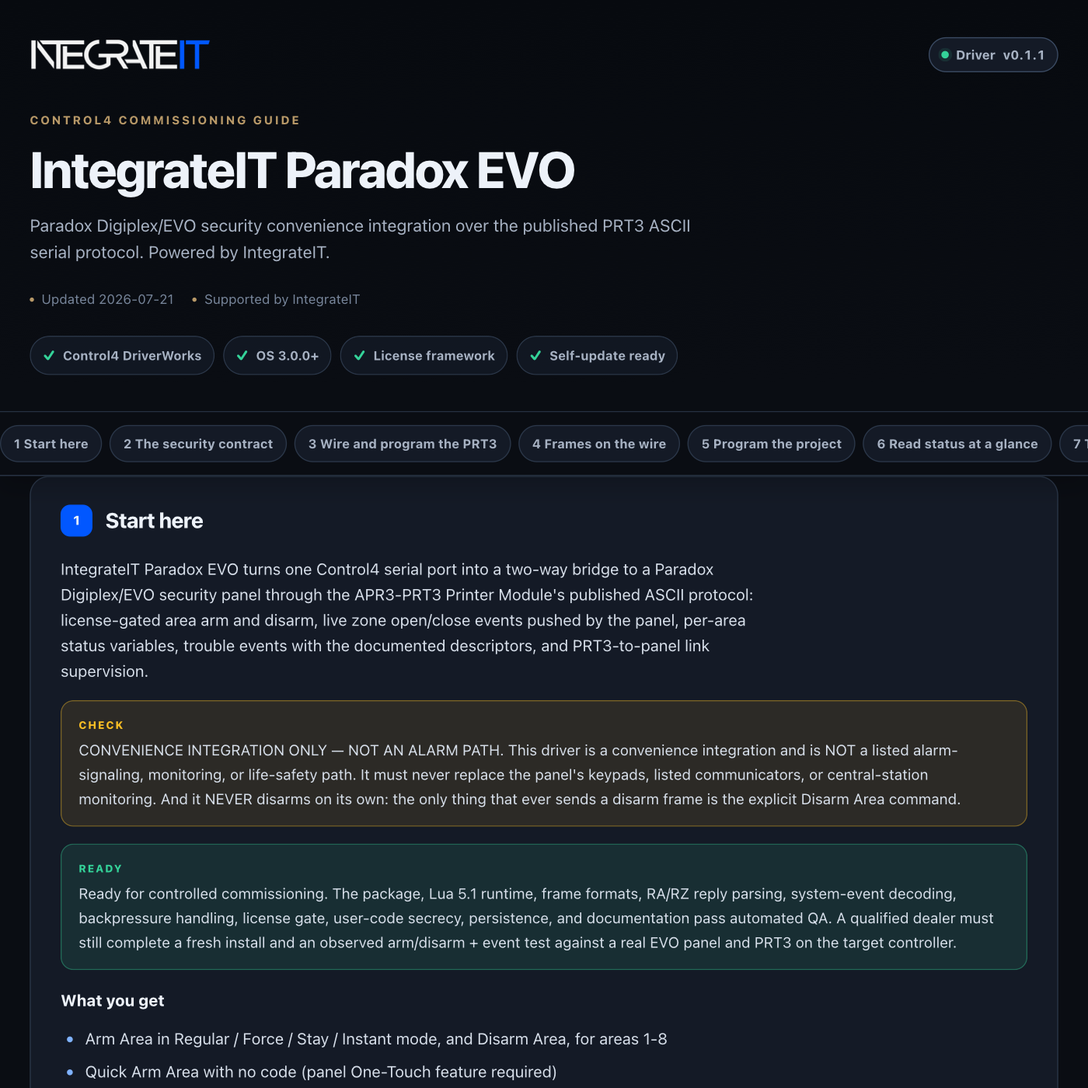
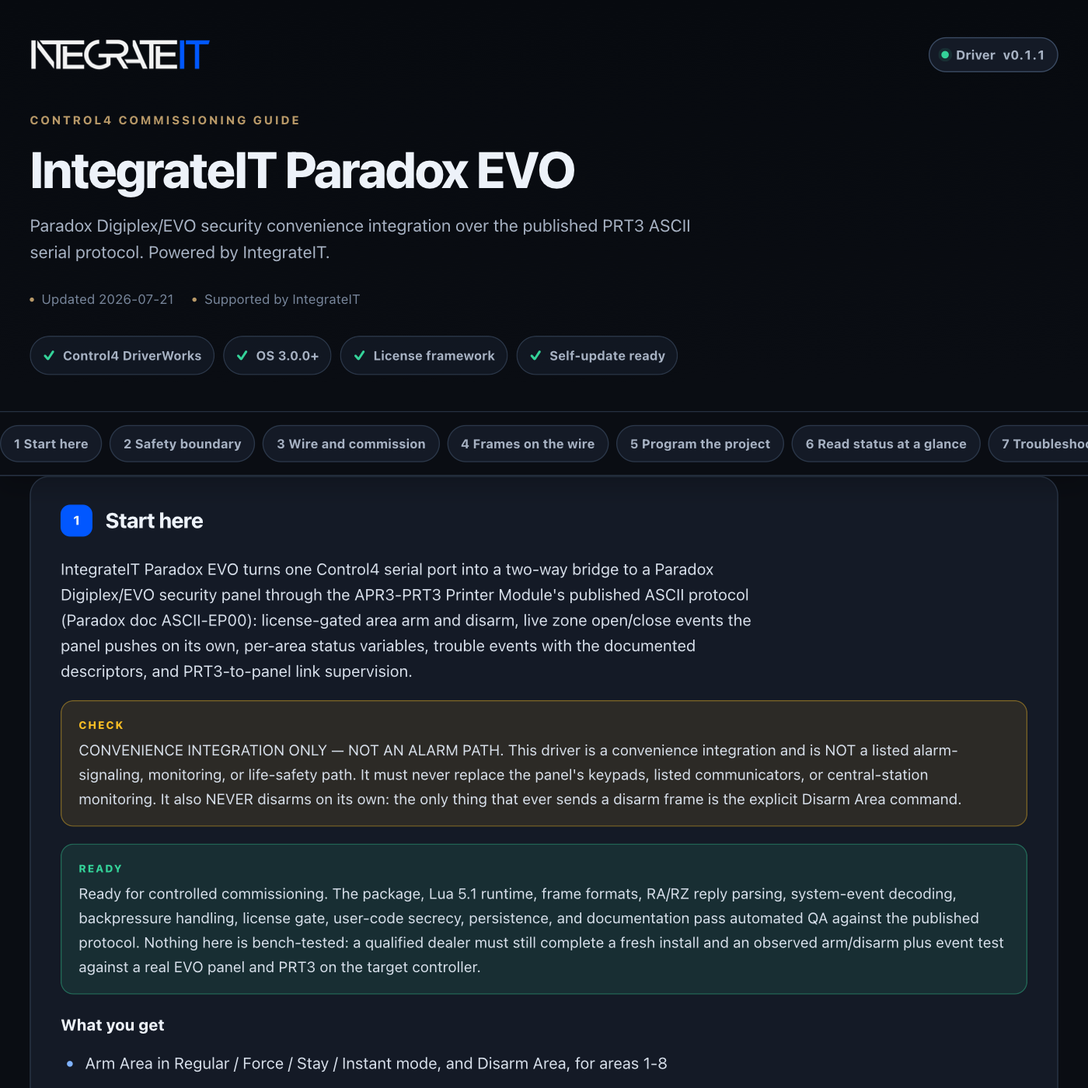
control4: publish driver channel (integrateit_paradox_evo 0.1.2)

diff --git a/control4/integrateit_paradox_evo/documentation.html b/control4/integrateit_paradox_evo/documentation.html
@@ -179,13 +179,13 @@ td code{white-space:normal}
     <div class="wrap">
       <div class="brandbar">
[1 lines of base64/hex data omitted]
-        <span class="version"><span class="word">Driver</span> v0.1.1</span>
+        <span class="version"><span class="word">Driver</span> v0.1.2</span>
       </div>
       <p class="eyebrow">Control4 commissioning guide</p>
       <h1>IntegrateIT Paradox EVO</h1>
       <p class="sub">Paradox Digiplex/EVO security convenience integration over the published PRT3 ASCII serial protocol. Powered by IntegrateIT.</p>
       <div class="meta">
-        <span>Updated 2026-07-21</span>
+        <span>Updated 2026-07-26</span>
         <span>Supported by IntegrateIT</span>
       </div>
       <div class="readiness" aria-label="Driver capabilities">
@@ -198,66 +198,68 @@ td code{white-space:normal}
   </header>
 
   <div class="toc-wrap">
-    <nav class="toc wrap" aria-label="Documentation sections"><a href="#overview">1 Start here</a><a href="#security">2 The security contract</a><a href="#setup">3 Wire and program the PRT3</a><a href="#protocol">4 Frames on the wire</a><a href="#programming">5 Program the project</a><a href="#status">6 Read status at a glance</a><a href="#troubleshooting">7 Troubleshoot methodically</a><a href="#trust">8 Ownership, privacy, and licensing</a><a href="#reference">R Reference</a><a href="#licensing">L Licensing</a><a href="#updates">U Automatic updates</a><a href="#changelog">V Version history</a></nav>
+    <nav class="toc wrap" aria-label="Documentation sections"><a href="#overview">1 Start here</a><a href="#safety">2 Safety boundary</a><a href="#setup">3 Wire and commission</a><a href="#protocol">4 Frames on the wire</a><a href="#programming">5 Program the project</a><a href="#status">6 Read status at a glance</a><a href="#troubleshooting">7 Troubleshoot methodically</a><a href="#trust">8 Ownership, privacy, and licensing</a><a href="#reference">R Reference</a><a href="#licensing">L Licensing</a><a href="#updates">U Automatic updates</a><a href="#changelog">V Version history</a></nav>
   </div>
 
   <main class="wrap">
     <section class="card" id="overview" data-card="overview">
   <h2><span class="n">1</span> Start here</h2>
-  <p>IntegrateIT Paradox EVO turns one Control4 serial port into a two-way bridge to a Paradox Digiplex/EVO security panel through the APR3-PRT3 Printer Module's published ASCII protocol: license-gated area arm and disarm, live zone open/close events pushed by the panel, per-area status variables, trouble events with the documented descriptors, and PRT3-to-panel link supervision.</p>
-  <div class="note warn">CONVENIENCE INTEGRATION ONLY — NOT AN ALARM PATH. This driver is a convenience integration and is NOT a listed alarm-signaling, monitoring, or life-safety path. It must never replace the panel's keypads, listed communicators, or central-station monitoring. And it NEVER disarms on its own: the only thing that ever sends a disarm frame is the explicit Disarm Area command.</div>
-  <div class="note good">Ready for controlled commissioning. The package, Lua 5.1 runtime, frame formats, RA/RZ reply parsing, system-event decoding, backpressure handling, license gate, user-code secrecy, persistence, and documentation pass automated QA. A qualified dealer must still complete a fresh install and an observed arm/disarm + event test against a real EVO panel and PRT3 on the target controller.</div>
+  <p>IntegrateIT Paradox EVO turns one Control4 serial port into a two-way bridge to a Paradox Digiplex/EVO security panel through the APR3-PRT3 Printer Module's published ASCII protocol (Paradox doc ASCII-EP00): license-gated area arm and disarm, live zone open/close events the panel pushes on its own, per-area status variables, trouble events with the documented descriptors, and PRT3-to-panel link supervision.</p>
+  <div class="note warn">CONVENIENCE INTEGRATION ONLY — NOT AN ALARM PATH. This driver is a convenience integration and is NOT a listed alarm-signaling, monitoring, or life-safety path. It must never replace the panel's keypads, listed communicators, or central-station monitoring. It also NEVER disarms on its own: the only thing that ever sends a disarm frame is the explicit Disarm Area command.</div>
+  <div class="note good">Ready for controlled commissioning. The package, Lua 5.1 runtime, frame formats, RA/RZ reply parsing, system-event decoding, backpressure handling, license gate, user-code secrecy, persistence, and documentation pass automated QA against the published protocol. Nothing here is bench-tested: a qualified dealer must still complete a fresh install and an observed arm/disarm plus event test against a real EVO panel and PRT3 on the target controller.</div>
   <p><b>What you get</b></p>
   <ul>
     <li>Arm Area in Regular / Force / Stay / Instant mode, and Disarm Area, for areas 1-8</li>
     <li>Quick Arm Area with no code (panel One-Touch feature required)</li>
     <li><code>Zone Opened</code> / <code>Zone Closed</code> events driven by the panel's own pushed system events</li>
     <li><code>AREA_1_STATUS</code> … <code>AREA_8_STATUS</code> variables plus a parsed <code>Area Status</code> readout with alarm / trouble / memory / not-ready / programming / strobe flags</li>
-    <li><code>Trouble Started</code> / <code>Trouble Restored</code> events (AC failure, battery failure, bell, clock, TLM, fire loop, zone tamper)</li>
+    <li><code>Trouble Started</code> / <code>Trouble Restored</code> events (AC failure, battery, bell, clock, TLM, fire loop, zone tamper)</li>
     <li><code>Panel Link Lost</code> / <code>Panel Link Restored</code> from the PRT3's <code>COMM&amp;ok</code> / <code>COMM&amp;fail</code> heartbeat</li>
     <li>On-demand <code>Refresh Area Status</code> and <code>Refresh Zone Status</code> sweeps over a paced queue that honors the PRT3's buffer-full (<code>!</code>) backpressure</li>
   </ul>
 </section>
 
-<section class="card" id="security" data-card="security">
-  <h2><span class="n">2</span> The security contract</h2>
-  <p>This driver takes the safety questions off the table before they are asked:</p>
+<section class="card" id="safety" data-card="safety">
+  <h2><span class="n">2</span> Safety boundary</h2>
+  <div class="note warn">Do not build life-safety or security-critical automation on this driver. It is a convenience layer over an unauthenticated serial protocol; the panel, its keypads, and its listed communicators remain the system of record for alarm signaling, monitoring, and life safety. Nothing this driver does is a listed alarm path.</div>
+  <p>This driver settles the safety questions before they are asked:</p>
   <ul>
-    <li><b>Not an alarm path.</b> Nothing this driver does is a listed alarm-signaling or life-safety function. Monitoring, reporting, and life safety stay on the panel and its listed communicators.</li>
-    <li><b>Never auto-disarm.</b> There is exactly one code path that builds a disarm frame — the Disarm Area command — and no event, timer, schedule, or received message can invoke it. Programming a disarm into your project is a dealer decision, made explicitly.</li>
-    <li><b>The user code is a write-only secret.</b> It is embedded in arm/disarm frames because the protocol demands it inline; it is never printed to the log, never placed in a Control4 variable, and masked (<code>AA001A******</code>) everywhere it is displayed.</li>
+    <li><b>Not an alarm path.</b> No function here is listed alarm-signaling, monitoring, or life-safety. Those stay on the panel and its listed communicators — always.</li>
+    <li><b>Never auto-disarm.</b> Exactly one code path builds a disarm (<code>AD</code>) frame — the explicit <b>Disarm Area</b> command — and no received event, timer, schedule, or state change can invoke it. A disarm you program into the project is a deliberate dealer decision. The <code>Area Disarmed</code> event is report-only.</li>
+    <li><b>An alarm is never suppressed.</b> Every edge into alarm fires <code>Area In Alarm</code>, including the very first observation and including a panel event scoped to area <code>000</code> (all-areas / global) that has no single area to pin it to.</li>
+    <li><b>The user code is a write-only secret.</b> It is embedded in arm/disarm frames because the protocol carries it inline; it is never printed to the log, never placed in a Control4 variable, and masked (<code>AA001A******</code>) everywhere it is displayed. <code>Print Configuration</code> reports only whether a code is set and its digit count.</li>
     <li><b>The wire is plaintext.</b> The PRT3 ASCII protocol has no session authentication and no encryption — physical access to the serial run is effectively authority over the panel. Keep the RS-232 run inside the protected premises and treat it as a trusted segment.</li>
   </ul>
 </section>
 
 <section class="card" id="setup" data-card="setup">
-  <h2><span class="n">3</span> Wire and program the PRT3</h2>
+  <h2><span class="n">3</span> Wire and commission</h2>
   <ol class="steps">
     <li>Connect the APR3-PRT3 to the panel combus (red / black / green / yellow) per the Paradox instructions.</li>
     <li>In PRT3 programming, set section <b>[016]</b> option <b>[1]</b> ON (serial port enabled), option <b>[4]</b> ON (Home Automation usage), and options <b>[5]</b> and <b>[6]</b> OFF (ASCII protocol). Set the baud rate with options <b>[2]</b> and <b>[3]</b> (2400 / 9600 / 19200 / 57600).</li>
     <li>Wire a Control4 controller or IO-extender RS-232 port to the PRT3's 9-pin serial port: 8 data bits, no parity, 1 stop bit, no flow control, at the baud you programmed.</li>
     <li>Add <b>IntegrateIT Paradox EVO</b> to the project and bind <b>PRT3 Serial Port</b> (binding 1) to that port in Connections, matching the baud.</li>
     <li>Watch <code>Panel Link</code> flip to <code>OK</code> — the PRT3 announces <code>COMM&amp;ok</code> at startup when it is talking to the panel.</li>
-    <li>Enter a panel user code with arming rights in <b>User Code</b>, pick the <b>Area</b> and <b>Arm Mode</b>, and test <b>Arm Area</b> / <b>Disarm Area</b> from the Actions tab with someone at a keypad.</li>
-    <li>Set <b>Area Count</b> / <b>Zone Count</b> to match the panel, then run <b>Refresh Area Status</b> and <b>Refresh Zone Status</b> to baseline the state.</li>
+    <li>Enter a panel user code with arming rights in <b>User Code</b>, pick the <b>Area</b> and <b>Arm Mode</b>, then test <b>Arm Area</b> / <b>Disarm Area</b> from the Actions tab with someone at a keypad. <code>Last Command</code> shows the masked frame and the PRT3's <code>&amp;OK</code> echo clears <code>Last Error</code> — that echo means the PRT3 accepted the frame, not that the area armed.</li>
+    <li>Set <b>Area Count</b> / <b>Zone Count</b> to match the panel, then run <b>Refresh Area Status</b> and <b>Refresh Zone Status</b> and watch <code>Area Status</code> and the <code>AREA_1_STATUS</code> … <code>AREA_8_STATUS</code> variables fill in with what the panel actually reports. That is the proof the whole path works.</li>
   </ol>
   <div class="note">Areas 5-8 and zones 49-96 exist only on EVO96 / EVO192 panels. Quick Arm requires the panel's One-Touch arming feature.</div>
 </section>
 
 <section class="card" id="protocol" data-card="protocol">
   <h2><span class="n">4</span> Frames on the wire</h2>
-  <p>Everything is uppercase ASCII terminated by a carriage return, exactly per Paradox's published protocol:</p>
+  <p>Everything is uppercase ASCII terminated by a carriage return (ASCII 13), exactly per Paradox's published protocol:</p>
   <table>
     <tr><th>Wire frame</th><th>Meaning</th></tr>
     <tr><td><code>AA001A123456</code></td><td>Arm area 1, Regular mode, user code 123456</td></tr>
-    <tr><td><code>AA003S12</code></td><td>Arm area 3, Stay mode, 2-digit code (codes are 1-6 digits, sent as-is)</td></tr>
+    <tr><td><code>AA003S12</code></td><td>Arm area 3, Stay mode, 2-digit code (codes are 1-6 digits, sent as-is with no padding)</td></tr>
     <tr><td><code>AQ002F</code></td><td>Quick arm area 2, Force mode — no code</td></tr>
     <tr><td><code>AD001123456</code></td><td>Disarm area 1 with user code</td></tr>
     <tr><td><code>RA001</code></td><td>Request area 1 status</td></tr>
     <tr><td><code>RZ048</code></td><td>Request zone 48 status</td></tr>
   </table>
-  <p>The PRT3 echoes the first five characters of each command followed by <code>&amp;OK</code>, <code>&amp;fail</code>, or the requested payload. A bare <code>!</code> means its receive buffer is full — the driver re-queues the frame and retries after the spacing gap, up to 3 attempts. <code>COMM&amp;ok</code> / <code>COMM&amp;fail</code> report the PRT3-to-panel combus link.</p>
-  <p>An <code>RA</code> reply carries seven positional status characters: arm state (<code>D</code>/<code>A</code>/<code>F</code>/<code>S</code>/<code>I</code>), zone-in-memory (<code>M</code>), trouble (<code>T</code>), not-ready (<code>N</code>), in-programming (<code>P</code>), in-alarm (<code>A</code>), strobe (<code>S</code>). An <code>RZ</code> reply carries five: zone state (<code>C</code>/<code>O</code>/<code>T</code>/<code>F</code>), alarm, fire alarm, supervision lost, low battery.</p>
+  <p>The PRT3 echoes the first five characters of each command followed by <code>&amp;OK</code> or <code>&amp;fail</code>. Because that echo carries only the command's first five characters, it never contains the user code and is safe to surface verbatim in <code>Last Error</code>. A bare <code>!</code> means the PRT3's receive buffer was full and the frame was not accepted — the driver re-queues that exact frame and retries after the spacing gap, up to three attempts on the wire before it gives up and fires <code>Command Failed</code>. <code>COMM&amp;ok</code> / <code>COMM&amp;fail</code> report the PRT3-to-panel combus link.</p>
+  <p>An <code>RA</code> reply carries seven positional status characters: arm state (<code>D</code>/<code>A</code>/<code>F</code>/<code>S</code>/<code>I</code>), zone-in-memory (<code>M</code>), trouble (<code>T</code>), not-ready (<code>N</code>), in-programming (<code>P</code>), in-alarm (<code>A</code>), strobe (<code>S</code>). An <code>RZ</code> reply carries five: zone state (<code>C</code>/<code>O</code>/<code>T</code>/<code>F</code>), in-alarm, fire alarm, supervision lost, low battery.</p>
   <p>The panel also <b>pushes</b> system events unprompted as <code>GxxxNyyyAzzz</code> (event group, event number, area). That push stream — not polling — is what drives the driver's zone, arming, alarm, and trouble events. For example <code>G001N005A006</code> means zone 5 in area 6 opened.</p>
   <p><b>Command Spacing</b> paces the queue (default 150 ms) so back-to-back commands never overrun the PRT3's buffer; commands issued faster are queued in order, never dropped.</p>
 </section>
@@ -284,9 +286,14 @@ td code{white-space:normal}
     <tr><td><code>LAST_EVENT</code></td><td>STRING</td><td>The raw <code>GxxxNyyyAzzz</code> of the last pushed system event</td></tr>
     <tr><td><code>COMMANDS_SENT</code></td><td>NUMBER</td><td>Serial writes since install (persists across reboots)</td></tr>
   </table>
-  <p>To drive several areas from programming, set <b>Area</b> first, then invoke the arm/disarm command — Composer can write the property and call the command back-to-back; the paced queue keeps the PRT3 happy.</p>
-  <p>Poll replies establish state silently on first observation (a baseline sweep will not fire 96 events); pushed panel events and real state transitions fire. An in-alarm flag always fires <code>Area In Alarm</code>, even on first observation — an alarm is never the thing to stay quiet about.</p>
-  <p>Control commands are gated by the license: under Strict enforcement an unlicensed controller writes nothing to the serial port — but pushed panel events still update state and fire, because reporting an alarm is never withheld.</p>
+  <p>Three ways these wire into Composer programming:</p>
+  <ul>
+    <li><b>When someone disarms at a panel keypad, <code>Area Disarmed</code> fires → run a "welcome home" scene.</b> Feedback events let Control4 react to what the panel actually did, never to what was merely commanded.</li>
+    <li><b>When <code>Zone Opened</code> fires and <code>LAST_ZONE_OPENED</code> is 3 → announce the garage door is open.</b> The pushed zone stream drives automation without any polling.</li>
+    <li><b>On a "Goodnight" event → call <code>Arm Area</code>.</b> The command carries no parameters: it always acts on whatever the <b>Area</b> and <b>Arm Mode</b> properties currently hold, so set both (Stay, for a goodnight) before the command runs. To drive more than one area from programming, set <b>Area</b> first and then call the command — the paced queue keeps the PRT3 happy.</li>
+  </ul>
+  <p>Poll replies establish state silently on first observation (a baseline sweep does not fire an event for every area or zone it primes); pushed panel events and real known-to-known transitions fire. Some disarms are reported only through the panel's special-event group (<code>G022</code>) — a WinLoad, one-touch stay/instant, or voice-module disarm emits no ordinary disarm event, so the driver treats those as a genuine disarm and fires <code>Area Disarmed</code>, and the area variable never reads a stale <code>Armed</code>. The one <code>G022</code> sub-event that merely cancels an alarm is not a disarm and only clears the alarm flag.</p>
+  <p>Control commands are gated by the license: under Strict enforcement an unlicensed controller writes nothing to the serial port, and frames already queued when enforcement flips to Strict are dropped rather than fired late. Pushed panel events still update state and fire either way, because reporting an alarm is never a licensed feature and is never withheld.</p>
 </section>
 
 <section class="card" id="status" data-card="status">
@@ -294,12 +301,15 @@ td code{white-space:normal}
   <table>
     <tr><th>Property</th><th>Healthy result</th><th>What to do otherwise</th></tr>
     <tr><td><code>Panel Link</code></td><td><code>OK</code></td><td><code>Fail</code>: PRT3-to-panel combus problem. <code>Unknown</code>: check wiring, baud, and section [016] options</td></tr>
-    <tr><td><code>Area Status</code></td><td>Matches the keypad</td><td>Run Refresh Area Status; check the Area property points at the right area</td></tr>
-    <tr><td><code>Last Command</code></td><td>The masked frame you expected</td><td>Check Area, Arm Mode, and User Code (the code itself is never shown)</td></tr>
+    <tr><td><code>Area Status</code></td><td>Matches the keypad for the selected <code>Area</code></td><td>Run Refresh Area Status; confirm the <code>Area</code> property points at the right area</td></tr>
+    <tr><td><code>Last Zone Event</code></td><td>The last zone the panel reported (<code>Zone 5 opened</code>)</td><td><code>None</code> forever means no pushed events — check RX wiring and the PRT3 mode</td></tr>
+    <tr><td><code>Last Trouble</code></td><td><code>None</code>, or the descriptor plus <code>(restored)</code> once it clears</td><td>A descriptor with no <code>(restored)</code> is a live panel trouble — read it at a keypad</td></tr>
+    <tr><td><code>Last Command</code></td><td>The masked frame you expected</td><td>Check <code>Area</code>, <code>Arm Mode</code>, and <code>User Code</code> (the code itself is never shown)</td></tr>
     <tr><td><code>Last Error</code></td><td><code>None</code></td><td>The named refusal, <code>&amp;fail</code>, or backpressure problem</td></tr>
     <tr><td><code>Commands Sent</code></td><td>Counts up as you command</td><td>If it counts but the panel ignores you, verify baud and section [016]</td></tr>
     <tr><td><code>License Status</code></td><td>Activated, or Lenient during commissioning</td><td>Enter a key before selecting Strict enforcement</td></tr>
   </table>
+  <p><code>Area Status</code> always mirrors the area named in the <b>Area</b> property, so switching <code>Area</code> re-points the readout; an area the panel has not reported yet reads <code>Unknown</code>. After any reload every area, zone, and the panel link restart at <code>Unknown</code> — nothing about the live panel is knowable across a reboot, so the driver waits for the PRT3's startup <code>COMM&amp;ok</code>, the pushed event stream, and a refresh sweep to rebuild the picture. The lifetime <code>Commands Sent</code> counter is the one value that survives.</p>
   <p><b>Print Configuration</b> writes the panel link, per-area states, sweep sizes, and the IntegrateIT identity to the Lua output window. It reports only whether a User Code is set and its length — never the code, and never the license key.</p>
 </section>
 
@@ -307,25 +317,26 @@ td code{white-space:normal}
   <h2><span class="n">7</span> Troubleshoot methodically</h2>
   <table>
     <tr><th>Symptom</th><th>Likely cause</th><th>Resolution</th></tr>
-    <tr><td><code>Panel Link</code> stays <code>Unknown</code></td><td>Wrong baud, serial port not enabled, or wrong PRT3 port</td><td>Match the binding baud to [016] options [2][3]; confirm [016] option [1] ON and option [4] ON</td></tr>
-    <tr><td>Every command echoes <code>&amp;fail</code></td><td>Wrong/insufficient user code, or area not ready</td><td>Verify the code at a keypad; check <code>Area Status</code> for <code>not ready</code></td></tr>
+    <tr><td>Nothing responds — <code>Panel Link</code> stuck <code>Unknown</code>, no events, no echoes</td><td>Wrong serial port bound, wrong baud, PRT3 unpowered, or the serial port not enabled</td><td>Verify binding <b>1</b> to the PRT3 port, 8N1 at the [016] baud, PRT3 power, and [016] option [1] ON + option [4] ON</td></tr>
+    <tr><td>Commands transmit but the panel ignores them</td><td>PRT3 not in Home Automation ASCII mode</td><td>Set [016] option [4] ON and options [5] / [6] OFF; match the binding baud to options [2] / [3]</td></tr>
+    <tr><td>Every command echoes <code>&amp;fail</code></td><td>Wrong / insufficient user code, or area not ready</td><td>Verify the code at a keypad; check <code>Area Status</code> for <code>not ready</code></td></tr>
     <tr><td>Quick Arm does nothing</td><td>One-Touch arming disabled on the panel</td><td>Enable One-Touch per the panel's reference manual</td></tr>
-    <tr><td>Zone events never arrive</td><td>PRT3 not in Home Automation ASCII mode</td><td>Set [016] option [4] ON, options [5] and [6] OFF</td></tr>
-    <tr><td>Frequent <code>buffer full</code> errors</td><td>Spacing too tight for the site</td><td>Raise <code>Command Spacing (ms)</code></td></tr>
+    <tr><td>Zone events never arrive</td><td>PRT3 not pushing (wrong mode or RX not wired)</td><td>Confirm [016] option [4] ON and options [5] / [6] OFF; verify the controller's RX line</td></tr>
+    <tr><td>Frequent <code>buffer full</code> errors</td><td>Command Spacing too tight for the site</td><td>Raise <code>Command Spacing (ms)</code></td></tr>
     <tr><td>Areas 5-8 / zones 49-96 always fail</td><td>Panel is an EVO48 / DGP-848</td><td>Those ranges exist only on EVO96 / EVO192</td></tr>
-    <tr><td>Nothing transmits at all</td><td>Strict unlicensed</td><td>Read <code>License Status</code>; Lenient mode keeps control enabled without a key</td></tr>
+    <tr><td>Nothing transmits, yet events still arrive</td><td>Strict unlicensed</td><td>Read <code>License Status</code>; Lenient mode keeps control enabled without a key</td></tr>
   </table>
-  <div class="note warn">Do not build life-safety or security-critical automation on this driver. It is a convenience layer over a serial protocol with no authentication — the panel, its keypads, and its listed communicators remain the system of record.</div>
+  <p>If a symptom survives every check above, run <b>Print Configuration</b>, capture the Lua output window, and send it to support@integrateit.tech · (913) 804-7575.</p>
 </section>
 
 <section class="card" id="trust" data-card="trust">
   <h2><span class="n">8</span> Ownership, privacy, and licensing</h2>
-  <p>This package is an original IntegrateIT implementation of Paradox's published APR3-PRT3 ASCII serial protocol (the Printer Module exists precisely so home-automation systems can integrate with Digiplex panels). It does not bundle another vendor's runtime, source code, brand assets, trial system, or license. Driver engineering, Control4 integration, documentation, QA, licensing, updates, and support are provided by IntegrateIT.</p>
+  <p>This package is an original IntegrateIT implementation of Paradox's published APR3-PRT3 ASCII serial protocol (the Printer Module exists precisely so home-automation systems can integrate with Digiplex panels). It does not bundle another vendor's runtime, source code, brand assets, trial system, or license. Paradox, Digiplex, and EVO are trademarks of Paradox Security Systems Ltd.; IntegrateIT is not affiliated with Paradox, and this driver is not a Paradox product. Driver engineering, Control4 integration, documentation, QA, licensing, updates, and support are provided by IntegrateIT.</p>
   <p>The driver sends security commands to your PRT3 and nothing anywhere else. The panel user code stays on the serial wire — never in logs, variables, or displays. The shared IntegrateIT license and update services use the controller identity, driver slug, version, configured license key, and update channel as documented in the reference below.</p>
-  <p>Lenient mode allows commissioning without an activated key and keeps <code>License Status</code> visible. Strict mode blocks all serial control until the Ops Portal has minted and validated a key for that controller. Installing this package does not itself mint or activate a controller license.</p>
+  <p>Lenient mode allows commissioning without an activated key and keeps <code>License Status</code> visible. Strict mode blocks all serial control until the Ops Portal has minted and validated a key for that controller; pushed panel status keeps flowing either way. Installing this package does not itself mint or activate a controller license.</p>
 <section class="card" id="reference" data-card="reference">
   <h2><span class="n">R</span> Reference</h2>
-  <p>Generated from the driver manifest at build time — always matches this build (v0.1.1).</p>
+  <p>Generated from the driver manifest at build time — always matches this build (v0.1.2).</p>
   <h3>Properties</h3>
   <table>
     <tr><th>Property</th><th>Type</th><th>Default</th><th>Description</th></tr>
@@ -446,7 +457,9 @@ td code{white-space:normal}
     <section class="card" id="changelog" data-card="changelog">
   <h2><span class="n">V</span> Version history</h2>
   <div class="chg">
-    <div class="rel"><b>v0.1.1</b> <span class="pill green">current</span><span class="d">2026-07-21</span>
+    <div class="rel"><b>v0.1.2</b> <span class="pill green">current</span><span class="d">2026-07-26</span>
+      <ul><li>Documentation rebuilt to the IntegrateIT commissioning-guide standard: uniform sections, honest contracts, verified claim-by-claim against the code.</li></ul></div>
+    <div class="rel"><b>v0.1.1</b><span class="d">2026-07-21</span>
       <ul><li>Pre-ship adversarial review hardening (state fidelity + the never-suppress-an-alarm contract), no protocol changes:</li><li>Special disarm events (system-event group G022 - WinLoad disarm, one-touch stay/instant disarm, voice-module disarm, auto-arm cancelled) now report the area as Disarmed and fire `Area Disarmed`. These paths emit no G013-018 disarm event, so G022 is their only signal; previously the area read a stale `Armed` until the next status poll. The G022 cancel-alarm sub-event (N004) still only clears the alarm and never fabricates a disarm.</li><li>A zone/fire/panic alarm whose area field is 000 (all-areas / global) is no longer silently dropped: it still fires `Area In Alarm` and surfaces status, upholding the driver's standing contract that an alarm is never suppressed even when it has no single area to pin it to.</li><li>Added regression tests: G022 special disarm (and the N004 non-disarm guard), global-area alarm never suppressed, an RA reply reassembled from byte-at-a-time serial chunks, and a NACKed (&amp;fail) arm that must never fabricate an armed state.</li></ul></div>
     <div class="rel"><b>v0.1.0</b><span class="d">2026-07-21</span>
       <ul><li>Initial release: two-way Paradox Digiplex/EVO bridge per the published APR3-PRT3 ASCII serial protocol - license-gated area arm (Regular/Force/Stay/Instant), quick arm, and disarm for areas 1-8; pushed zone open/close events; per-area status variables; trouble events with the documented descriptors; PRT3 panel-link supervision; paced transmit queue honoring the PRT3 buffer-full backpressure. Convenience integration only - NOT a listed alarm path; the driver never auto-disarms, and the panel user code is never logged, never placed in a variable, and masked in every display.</li></ul></div>

diff --git a/control4/integrateit_paradox_evo/CHANGELOG.md b/control4/integrateit_paradox_evo/CHANGELOG.md
@@ -1,5 +1,8 @@
 # Changelog — IntegrateIT Paradox EVO
 
+## [0.1.2] - 2026-07-26
+- Documentation rebuilt to the IntegrateIT commissioning-guide standard: uniform sections, honest contracts, verified claim-by-claim against the code.
+
 ## [0.1.1] - 2026-07-21
 - Pre-ship adversarial review hardening (state fidelity + the never-suppress-an-alarm contract), no protocol changes:
   - Special disarm events (system-event group G022 - WinLoad disarm, one-touch stay/instant disarm, voice-module disarm, auto-arm cancelled) now report the area as Disarmed and fire `Area Disarmed`. These paths emit no G013-018 disarm event, so G022 is their only signal; previously the area read a stale `Armed` until the next status poll. The G022 cancel-alarm sub-event (N004) still only clears the alarm and never fabricates a disarm.
